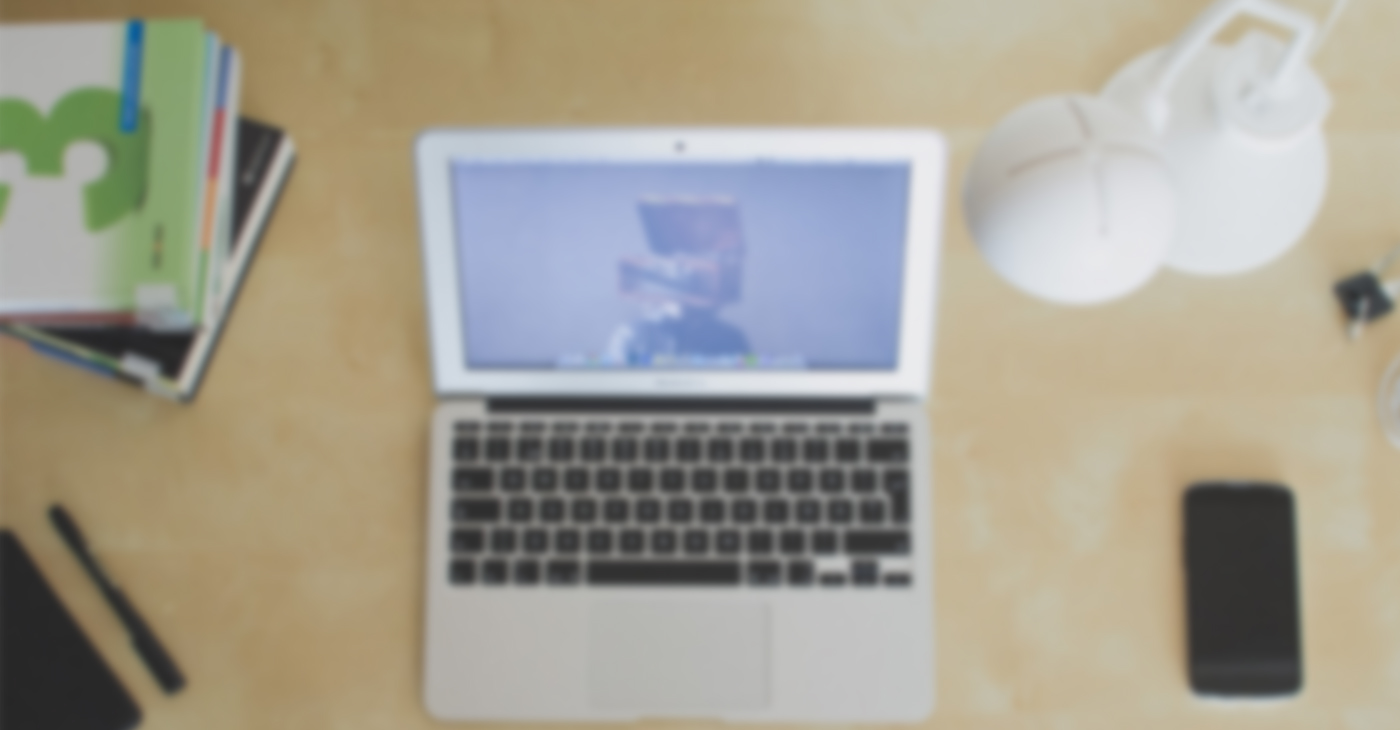
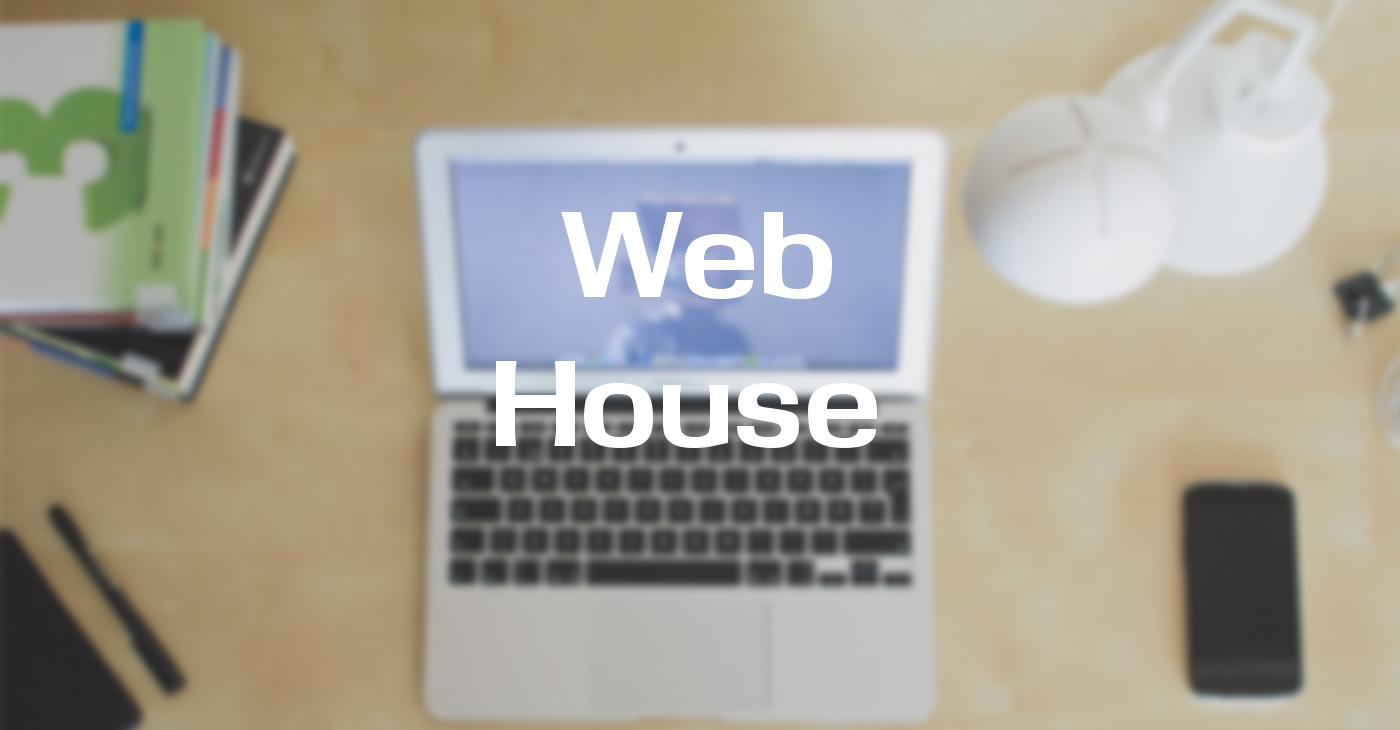
ini

Changed region(s): [[0.3379, 0.4822, 0.645, 0.6329], [0.3993, 0.2712, 0.6143, 0.4219]]

diff --git a/index.html b/index.html
@@ -1,7 +1,5 @@
-<!DOCTYPE html><html lang="pt-BR"><head><meta charset="utf-8" /><meta name="viewport" content="width=device-width, initial-scale=1.0" /><meta name="description" content="Desenvolvimento de Websites em Geral, Blogs e consultoria especializada" /><meta name="author" content="Desenvolvimento de Websites em Geral a preços acessíveis" /><title>Desenvolvimento de Websites em Geral, Blogs e consultoria especializada</title><link href="css/bootstrap.min.css" rel="stylesheet"><link href="css/font-awesome.min.css" rel="stylesheet" /><link href="css/animate.min.css" rel="stylesheet"><link href="css/prettyPhoto.css" rel="stylesheet" /><link href="css/main.css" rel="stylesheet"><link href="css/responsive.css" rel="stylesheet" /><!--[if lt IE 9]><script src="js/html5shiv.js"></script><script src="js/respond.min.js"></script><![endif]--> 
+<!DOCTYPE html><html lang="pt-BR"><head><meta charset="utf-8" /><meta name="viewport" content="width=device-width, initial-scale=1.0" /><meta name="description" content="Desenvolvimento de Websites em Geral, Blogs e consultoria especializada" /><meta name="author" content="Desenvolvimento de Websites em Geral a preços acessíveis" /><title>Web House Desenvolvimento de Websites em Geral, Blogs e consultoria especializada</title><link href="css/bootstrap.min.css" rel="stylesheet"><link href="css/font-awesome.min.css" rel="stylesheet" /><link href="css/animate.min.css" rel="stylesheet"><link href="css/prettyPhoto.css" rel="stylesheet" /><link href="css/main.css" rel="stylesheet"><link href="css/responsive.css" rel="stylesheet" /><!--[if lt IE 9]><script src="js/html5shiv.js"></script><script src="js/respond.min.js"></script><![endif]--> 
 <link rel="shortcut icon" href="images/ico/favicon.ico"><link rel="apple-touch-icon-precomposed" sizes="144x144" href="images/ico/apple-touch-icon-144-precomposed.png" /><link rel="apple-touch-icon-precomposed" sizes="114x114" href="images/ico/apple-touch-icon-114-precomposed.png" />
 <link rel="apple-touch-icon-precomposed" sizes="72x72" href="images/ico/apple-touch-icon-72-precomposed.png" /><link rel="apple-touch-icon-precomposed" href="images/ico/apple-touch-icon-57-precomposed.png" /></head><!--/head--><body class="homepage"><section id="main-slider" class="no-margin"><div class="carousel slide"><ol class="carousel-indicators"><li data-target="#main-slider" data-slide-to="0" class="active"></li><li data-target="#main-slider" data-slide-to="1"></li><li data-target="#main-slider" data-slide-to="2"></li></ol><div class="carousel-inner"><div class="item active" style="background-image: url(images/slider/bg1.jpg)"><div class="container"><div class="row slide-margin"><div class="col-sm-6"><div class="carousel-content"><h1 class="animation animated-item-1">Desenvolvimento de Websites</h1><h2 class="animation animated-item-2">Profissionais especializados na criação e manutenção de websites, temos nosso diferencial na rapidez de soluções web...</h2></div></div></div></div></div><!--/.item--><div class="item" style="background-image: url(images/slider/bg2.jpg)"><div class="container"><div class="row slide-margin"><div class="col-sm-6"><div class="carousel-content"><h1 class="animation animated-item-1">Experiência com Blogs</h1><h2 class="animation animated-item-2">Organização, manutenção e orientação sobre blogs, para que seu site possa alavancar nas pesquisas e no posicionamento de interesses reais das pessoas...</h2></div></div></div></div></div><!--/.item--><div class="item" style="background-image: url(images/slider/bg3.jpg)"><div class="container"><div class="row slide-margin"><div class="col-sm-6"><div class="carousel-content"><h1 class="animation animated-item-1">Google desmitificado</h1><h2 class="animation animated-item-2">Melhore seus sites no google com o conhecimento de nossos especialistas, que irão te auxiliar com seus blogs e sites...</h2></div></div></div></div></div><!--/.item--></div><!--/.carousel-inner--></div><!--/.carousel--><a class="prev hidden-xs" href="#main-slider" data-slide="prev"><i class="fa fa-chevron-left"></i></a><a class="next hidden-xs" href="#main-slider" data-slide="next"><i class="fa fa-chevron-right"></i></a></section><!--/#main-slider--><section id="feature" ><div class="container"><div class="row"><div class="features"><div class="col-md-4 col-sm-6 wow fadeInDown" data-wow-duration="1000ms" data-wow-delay="600ms"><div class="feature-wrap"><i class="fa fa-bullhorn"></i><h2>Redes Sociais</h2><h3>Ajudamos a crescer seu negócio pelas redes sociais</h3></div></div><!--/.col-md-4--><div class="col-md-4 col-sm-6 wow fadeInDown" data-wow-duration="1000ms" data-wow-delay="600ms"><div class="feature-wrap"><i class="fa fa-comments"></i><h2>Google em alcance</h2><h3>Site otimizado para o google e dispositivos móveis</h3></div></div><!--/.col-md-4-->
-<div class="col-md-4 col-sm-6 wow fadeInDown" data-wow-duration="1000ms" data-wow-delay="600ms"><div class="feature-wrap"><i class="fa fa-cogs"></i><h2>A disposição</h2><h3>Em análise e manutenção 24hs/dia para seu site não ficar fora do ar.</h3></div></div><!--/.col-md-4--></div><!--/.services--></div><!--/.row--></div><!--/.container--></section><!--/#feature--><section class="pricing-page"><div class="container"><div class="center"><h2>Preços</h2><p class="lead">Nós temos planos flexíveis para seus sites, nós queremos ver seu sucesso nas redes sociais e ver o crescimento do público em seu blog/homepage.</p></div><div class="pricing-area text-center"><div class="row"><div class="col-sm-6 plan price-one wow fadeInDown animated" style="visibility: visible; animation-name: fadeInDown; -webkit-animation-name: fadeInDown;"><ul><li class="heading-one"><h1>Iniciante</h1><span>R$10/Mês</span></li><li>1 Blog Grátis ao assinar esse plano</li><li>Plano Simples</li><li>Domínio simples gratuito</li><li class="plan-action">Entre em Contato Conosco</li></ul></div><div class="col-sm-6 plan price-two wow fadeInDown animated" style="visibility: visible; animation-name: fadeInDown; -webkit-animation-name: fadeInDown;"><ul><li class="heading-two"><h1>Medio</h1><span>R$20/Mês</span></li><li>2 Blogs/Site Grátis ao assinar esse plano, site, divulgação em páginas</li><li>Plano medio, consultoria, auxilio via email</li><li>Dominio simples gratuito</li><li class="plan-action">Entre em Contato Conosco</li></ul></div></div></div><!--/pricing-area--></div><!--/container--></section>
-<section id="partner"><div class="container"><div class="center wow fadeInDown"><h2>Parceiros</h2><p class="lead">Nós estamos dispostos a criar parceria com páginas no facebook</p></div><div class="partners"><ul><li><a href="#"><img class="img-responsive wow fadeInDown" data-wow-duration="1000ms" data-wow-delay="300ms" src="images/partners/partner1.png"></a></li><li><a href="#"><img class="img-responsive wow fadeInDown" data-wow-duration="1000ms" data-wow-delay="600ms" src="images/partners/partner2.png"></a></li><li><a href="#"><img class="img-responsive wow fadeInDown" data-wow-duration="1000ms" data-wow-delay="900ms" src="images/partners/partner3.png"></a></li><li><a href="#"><img class="img-responsive wow fadeInDown" data-wow-duration="1000ms" data-wow-delay="1200ms" src="images/partners/partner4.png"></a></li><li><a href="#"><img class="img-responsive wow fadeInDown" data-wow-duration="1000ms" data-wow-delay="1500ms" src="images/partners/partner5.png"></a></li></ul></div> 
-</div><!--/.container--></section><!--/#partner--><section id="conatcat-info"><div class="container"><div class="row"><div class="col-sm-8"><div class="media contact-info wow fadeInDown" data-wow-duration="1000ms" data-wow-delay="600ms"><div class="pull-left"><i class="fa fa-phone"></i></div>
+<div class="col-md-4 col-sm-6 wow fadeInDown" data-wow-duration="1000ms" data-wow-delay="600ms"><div class="feature-wrap"><i class="fa fa-cogs"></i><h2>A disposição</h2><h3>Em análise e manutenção 24hs/dia para seu site não ficar fora do ar.</h3></div></div><!--/.col-md-4--></div><!--/.services--></div><!--/.row--></div><!--/.container--></section><!--/#feature--><section class="pricing-page"><div class="container"><div class="center"><h2>Preços</h2><p class="lead">Nós temos planos flexíveis para seus sites, nós queremos ver seu sucesso nas redes sociais e ver o crescimento do público em seu blog/homepage.</p></div><div class="pricing-area text-center"><div class="row"><div class="col-sm-6 plan price-one wow fadeInDown animated" style="visibility: visible; animation-name: fadeInDown; -webkit-animation-name: fadeInDown;"><ul><li class="heading-one"><h1>Iniciante</h1><span>R$10/Mês</span></li><li>1 Blog Grátis ao assinar esse plano</li><li>Plano Simples</li><li>Domínio simples gratuito</li><li class="plan-action">Entre em Contato Conosco</li></ul></div><div class="col-sm-6 plan price-two wow fadeInDown animated" style="visibility: visible; animation-name: fadeInDown; -webkit-animation-name: fadeInDown;"><ul><li class="heading-two"><h1>Medio</h1><span>R$20/Mês</span></li><li>2 Blogs/Site Grátis ao assinar esse plano, site, divulgação em páginas</li><li>Plano medio, consultoria, auxilio via email</li><li>Dominio simples gratuito</li><li class="plan-action">Entre em Contato Conosco</li></ul></div></div></div><!--/pricing-area--></div><!--/container--></section><section id="conatcat-info"><div class="container"><div class="row"><div class="col-sm-8"><div class="media contact-info wow fadeInDown" data-wow-duration="1000ms" data-wow-delay="600ms"><div class="pull-left"><i class="fa fa-phone"></i></div>
 <div class="media-body"><h2>Tem alguma dúvida?</h2><p>Entre em contato conosco, teremos o prazer de te auxiliar. <a href="mailto:fabriporto10@gmail.com?Subject=Desenvolvimento de Websites">fabriporto10@gmail.com</a></p></div></div></div></div></div><!--/.container--></section><!--/#conatcat-info--><footer id="footer" class="midnight-blue"><div class="container"><div class="row"><div class="col-sm-6">&copy; <span id="date"></span> . Todos os Direitos Reservados.</div></div></div></footer><!--/#footer--><script>var d = new Date();document.getElementById('date').innerHTML = d.getFullYear();document.getElementById('partner').style.display='none';</script><script src="js/jquery.js"></script><script src="js/bootstrap.min.js"></script><script src="js/jquery.prettyPhoto.js"></script><script src="js/jquery.isotope.min.js"></script><script src="js/main.js"></script></body></html>
